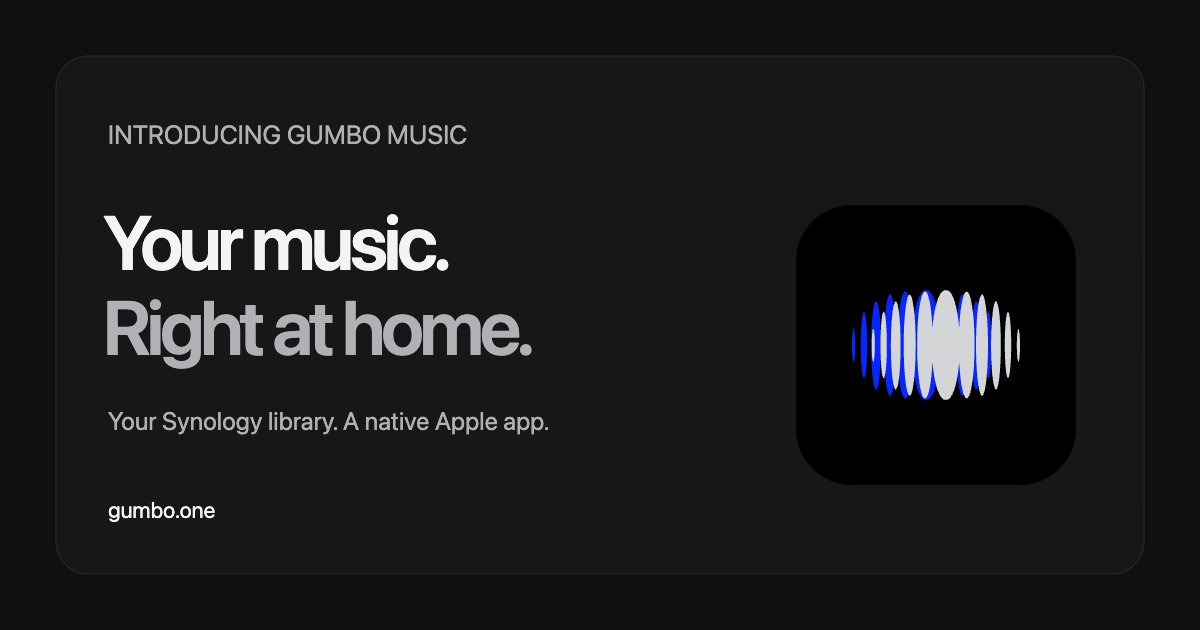
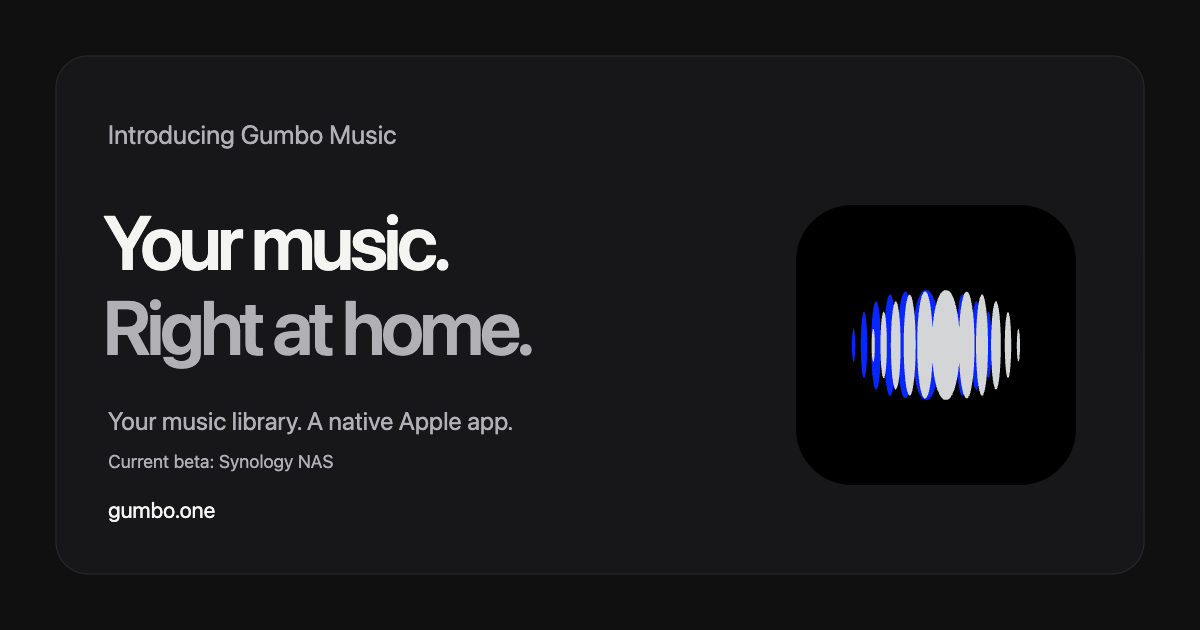
Use Gumbo casing and clarify current NAS support (#157)

Changed region(s): [[0.0925, 0.181, 0.4008, 0.2413], [0.1233, 0.6333, 0.4625, 0.6937], [0.0925, 0.7238, 0.2775, 0.754]]

diff --git a/website/index.html b/website/index.html
@@ -9,12 +9,12 @@
 
   <!-- PRODUCT SEO: GUMBO MUSIC — keep these static tags aligned with the product section below. -->
   <title>Gumbo Music — Your music. Right at home.</title>
-  <meta name="description" content="Your personal Synology music library, in a native app for iPhone and Mac. Stream directly, listen offline, and help shape Gumbo Music in TestFlight.">
+  <meta name="description" content="Your music library, in a native app for iPhone and Mac. Stream from your NAS, listen offline, and join the beta. Currently supports Synology.">
   <link rel="canonical" href="https://gumbo.one/">
   <meta property="og:type" content="website">
   <meta property="og:site_name" content="Gumbo">
   <meta property="og:title" content="Gumbo Music — Your music. Right at home.">
-  <meta property="og:description" content="A native home for the music on your Synology. Join the first beta batch and help shape Gumbo Music.">
+  <meta property="og:description" content="A native home for your personal music library. Currently for Synology NAS. Join the first beta batch and help shape Gumbo Music.">
   <meta property="og:url" content="https://gumbo.one/">
   <meta property="og:image" content="https://gumbo.one/assets/og-image.png">
   <meta property="og:image:width" content="1200">
@@ -22,7 +22,7 @@
   <meta property="og:image:alt" content="Gumbo Music. Your music. Right at home.">
   <meta name="twitter:card" content="summary_large_image">
   <meta name="twitter:title" content="Gumbo Music — Your music. Right at home.">
-  <meta name="twitter:description" content="Your own Synology library. A native Apple experience. Join the Gumbo Music beta.">
+  <meta name="twitter:description" content="Your own music library. A native Apple experience. Current beta supports Synology NAS.">
   <meta name="twitter:image" content="https://gumbo.one/assets/og-image.png">
   <!-- END PRODUCT SEO -->
 
@@ -51,7 +51,7 @@
   <!-- SHARED GUMBO SHELL: keep the umbrella identity independent of a product. -->
   <header class="site-header">
     <nav class="nav container" aria-label="Main navigation">
-      <a class="wordmark" href="#top" aria-label="Gumbo home"><img src="assets/logo.svg" width="48" height="48" alt=""><span>gumbo</span></a>
+      <a class="wordmark" href="#top" aria-label="Gumbo home"><img src="assets/logo.svg" width="48" height="48" alt=""><span>Gumbo</span></a>
       <div class="nav-links"><a href="#features">Features</a><a href="#how-it-works">How it works</a><a href="#privacy">Privacy</a></div>
       <a class="button button-small" href="#beta" data-beta-link>Join the beta <svg class="icon" aria-hidden="true"><use href="#arrow"/></svg></a>
     </nav>
@@ -68,12 +68,12 @@
       <div class="hero-copy">
         <p class="eyebrow product-label"><span class="status-dot" aria-hidden="true"></span> Introducing Gumbo Music</p>
         <h1 id="hero-title">Your music.<br><span class="soft-text">Right at home.</span></h1>
-        <p class="hero-description">The music on your Synology.<br>A native home on your iPhone and Mac.</p>
+        <p class="hero-description">The music on your NAS.<br> A native home on your iPhone and Mac.</p>
         <div class="hero-actions">
           <a class="button" href="#beta" data-beta-link>Join the TestFlight beta <svg class="icon" aria-hidden="true"><use href="#arrow"/></svg></a>
           <a class="text-link" href="#how-it-works">See how it works <svg class="icon" aria-hidden="true"><use href="#arrow-down"/></svg></a>
         </div>
-        <p class="hero-note">Your collection. Your NAS. No extra music server.</p>
+        <p class="hero-note">Current beta: Synology NAS with DSM 7 or later.</p>
       </div>
 
       <figure class="product-preview" aria-labelledby="preview-caption">
@@ -120,7 +120,7 @@
     </section>
 
     <div class="promise-strip container" role="group" aria-label="Gumbo Music at a glance">
-      <span><svg class="icon" aria-hidden="true"><use href="#check"/></svg> Direct from your Synology</span>
+      <span><svg class="icon" aria-hidden="true"><use href="#check"/></svg> Direct from your NAS</span>
       <span><svg class="icon" aria-hidden="true"><use href="#check"/></svg> No Gumbo account</span>
       <span><svg class="icon" aria-hidden="true"><use href="#check"/></svg> No music cloud upload</span>
     </div>
@@ -143,10 +143,10 @@
       <div class="section-heading compact-heading"><p class="eyebrow">From your NAS to your next listen</p><h2 id="how-title">A few steps.<br><span class="soft-text">Then press play.</span></h2></div>
       <ol class="steps" role="list">
         <li><span class="step-number" aria-hidden="true">01</span><h3>Install the app.</h3><p>Get Gumbo Music through TestFlight on your Apple device.</p></li>
-        <li><span class="step-number" aria-hidden="true">02</span><h3>Point it at your Synology.</h3><p>Sign in with your existing NAS account and choose your music folder. No extra media server to install.</p></li>
+        <li><span class="step-number" aria-hidden="true">02</span><h3>Connect your library.</h3><p>Sign in to your Synology NAS and choose your music folder. No extra media server to install.</p></li>
         <li><span class="step-number" aria-hidden="true">03</span><h3>Your library, everywhere.</h3><p>Listen at home, stream away with remote access set up, or take your downloads offline.</p></li>
       </ol>
-      <p class="setup-note">A Synology NAS with DSM 7 or later and File Station is required. Listening away from home needs a reachable server connection, such as a configured HTTPS address or Tailscale.</p>
+      <p class="setup-note">The current beta requires a Synology NAS with DSM 7 or later and File Station. Listening away from home needs a reachable server connection, such as a configured HTTPS address or Tailscale.</p>
     </section>
 
     <section class="privacy-section container" id="privacy" aria-labelledby="privacy-title">
@@ -159,12 +159,12 @@
     <section class="beta-section container" id="beta" tabindex="-1" aria-labelledby="beta-title">
       <div class="beta-card">
         <div class="beta-copy"><p class="eyebrow">The first batch is limited</p><h2 id="beta-title">A little feedback.<br>A better way to listen.</h2><p>Join the Gumbo Music beta and help us get the details right. Early testers get <strong>a free year at launch</strong> in exchange for their feedback.</p><a class="button button-dark" href="#beta" data-beta-link>Join the TestFlight beta <svg class="icon" aria-hidden="true"><use href="#arrow"/></svg></a><p id="beta-status" class="beta-status" role="status" tabindex="-1">The public invitation link is coming soon. Please check back here.</p><noscript><p class="beta-status">JavaScript is needed to open a configured TestFlight invitation. You can still browse the complete page.</p></noscript></div>
-        <div class="beta-aside"><span class="beta-icon"><img src="assets/logo.svg" width="112" height="112" alt="Gumbo Music icon" loading="lazy"></span><p>Bring your library.<br>Make yourself at home.</p><span class="beta-requirements">iPhone & iPad: iOS 26.1+<br>Mac: macOS 26+<br>Synology NAS required</span></div>
+        <div class="beta-aside"><span class="beta-icon"><img src="assets/logo.svg" width="112" height="112" alt="Gumbo Music icon" loading="lazy"></span><p>Bring your library.<br>Make yourself at home.</p><span class="beta-requirements">iPhone & iPad: iOS 26.1+<br>Mac: macOS 26+<br>Current beta: Synology NAS</span></div>
       </div>
     </section>
   </main>
   <!-- END PRODUCT: GUMBO MUSIC -->
 
-  <footer class="site-footer container"><div><a class="wordmark footer-wordmark" href="#top"><span>gumbo</span></a><p>Native apps for the things you love.</p></div><div class="footer-links"><a href="#privacy">Privacy</a><a href="#beta">Beta</a><span>© 2026 Gumbo</span></div></footer>
+  <footer class="site-footer container"><div><a class="wordmark footer-wordmark" href="#top"><span>Gumbo</span></a><p>Native apps for the things you love.</p></div><div class="footer-links"><a href="#privacy">Privacy</a><a href="#beta">Beta</a><span>© 2026 Gumbo</span></div></footer>
 </body>
 </html>

diff --git a/website/styles.css b/website/styles.css
@@ -43,7 +43,7 @@ h1, h2, h3, p, figure { margin: 0; }
 .hero { display: grid; grid-template-columns: 1fr 1.08fr; align-items: center; gap: 25px; min-height: 685px; padding-block: 72px 88px; }
 .hero-copy { position: relative; z-index: 2; animation: arrive .7s ease both; }
 .eyebrow { color: var(--muted); text-transform: uppercase; font-size: 11px; letter-spacing: .14em; font-weight: 600; line-height: 1.5; }
-.product-label { display: flex; align-items: center; gap: 10px; margin-bottom: 25px; }
+.product-label { text-transform: none; letter-spacing: .035em; display: flex; align-items: center; gap: 10px; margin-bottom: 25px; }
 .status-dot { width: 6px; height: 6px; border-radius: 100%; background: var(--silver); box-shadow: 0 0 0 4px #d4d5d60b; }
 h1 { font-size: clamp(48px, 5.3vw, 70px); line-height: 1.035; letter-spacing: -.052em; font-weight: 600; }
 .soft-text { color: #a3a3a9; }

diff --git a/website/README.md b/website/README.md
@@ -20,6 +20,8 @@ From this folder, run `python3 -m http.server 8000`, then open `http://localhost
 - **Screenshots:** replace each entire decorative mockup `<div>` with `<img class="desktop-preview product-screenshot">` for Mac or `<img class="phone-preview product-screenshot">` for iPhone. Add `src`, descriptive `alt`, and natural `width`/`height`. Update the preview caption. HTML comments mark both slots; current mockups are not screenshots.
 - **Social image:** replace `assets/og-image.png` (**1200 × 630**). Its editable source is `assets/og-image.svg`. `assets/logo.svg` is the supplied logo.
 
+Use **Gumbo** and **Gumbo Music** with this exact casing in visible branding. Domain names and technical identifiers stay lowercase. The current beta supports Synology DSM/File Station only; general NAS wording must keep that requirement clear.
+
 The beta's limited-first-batch/free-year-at-launch offer is supplied by the owner. Keep privacy wording precise: no separate Gumbo account or music upload to a Gumbo cloud library; audio streams/downloads to devices, while iCloud syncs profiles and listening data. Remote streaming needs configured NAS access. This page does not replace the final app privacy policy.
 
 ## Vercel (current host)
